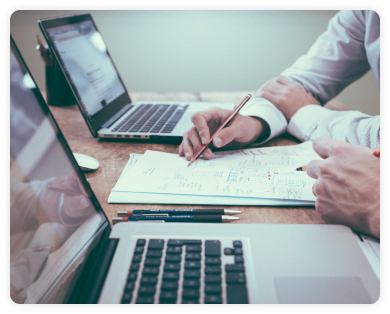
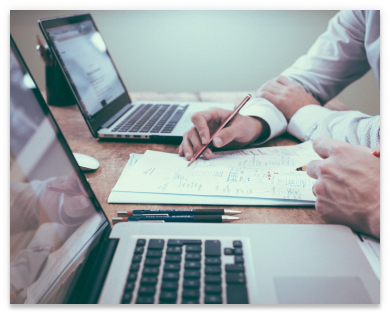
Images update
Edited images in section 3: removed round corners.

Changed region(s): [[0.0, 0.9459, 0.9846, 1.0], [0.0, 0.0287, 0.0615, 0.0573], [0.9538, 0.0287, 0.9846, 0.0573]]

diff --git a/index.html b/index.html
@@ -119,16 +119,20 @@
                 <p>Lỏa Spetnaz</p>
                 <p>UI Designer</p>
                 </li>
-                
+
                 </ul>
             </section>
             <footer>
-            <a href="">DevStudio</a>
+            <a href="./index.html">DevStudio</a>
             <address>
                 м. Харків, вул. Ярослава Мудрого, 18
                 <ul>
+                <li>
                 <a href="mailto:info@devstudio.com">info@devstudio.com</a>
+                </li>
+                <li>
                 <a href="tel:+380680001100">+38 068 000 11 00</a>
+                </li>
                 </ul>
             </address>
             </footer>
